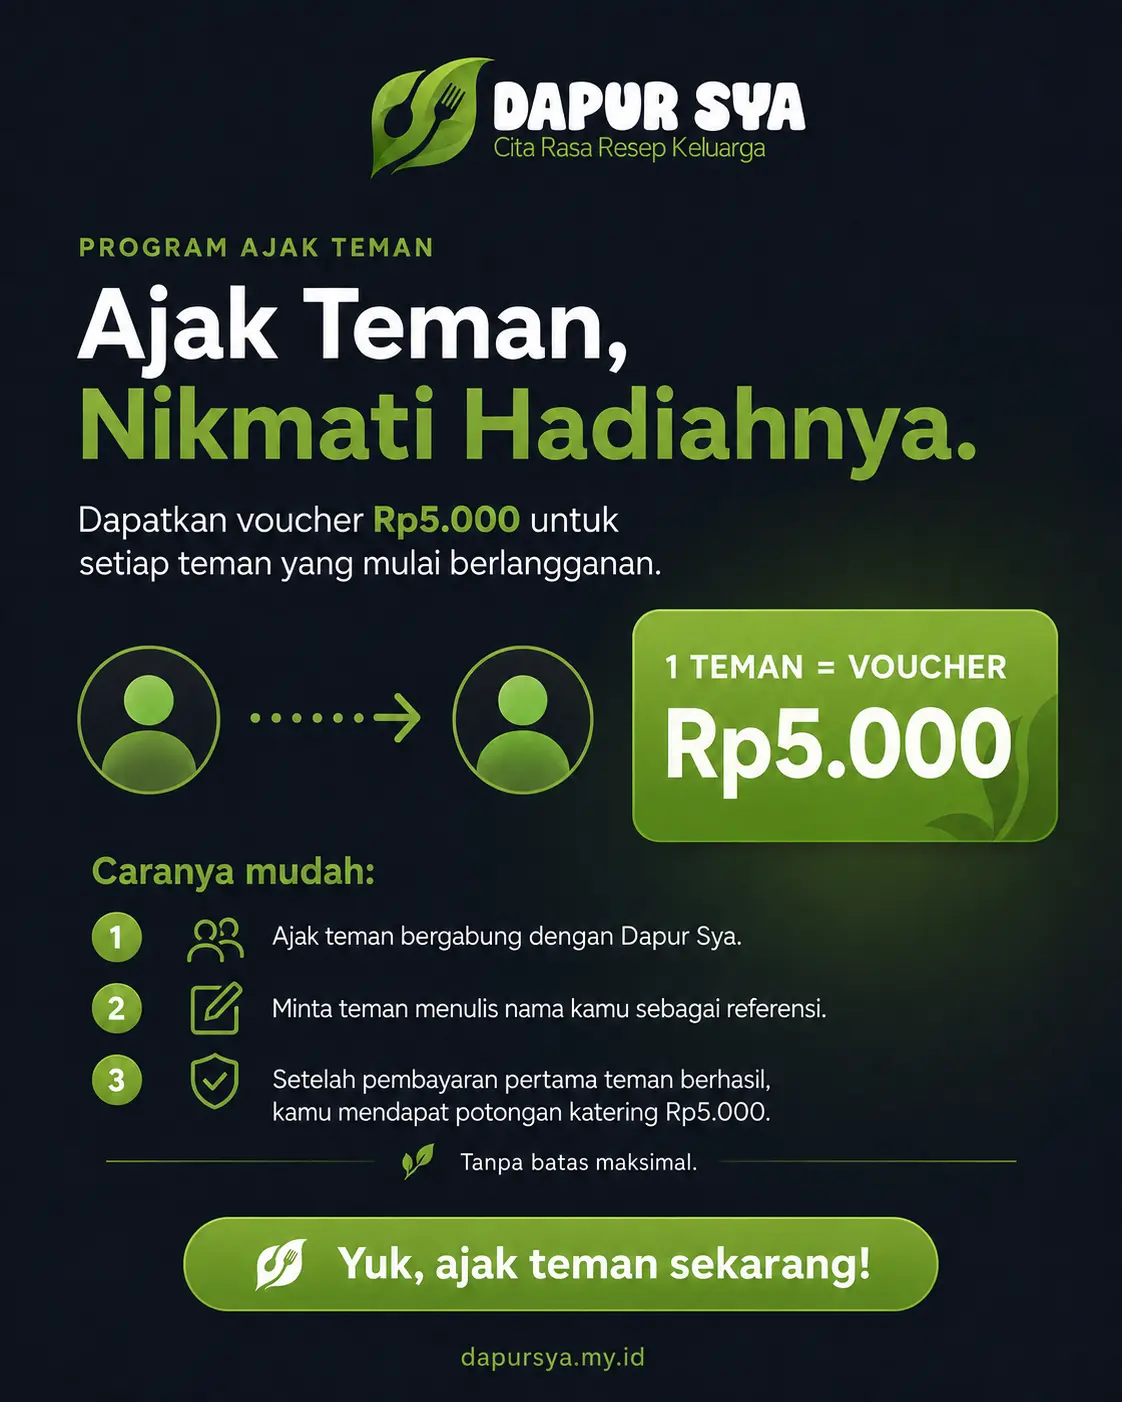
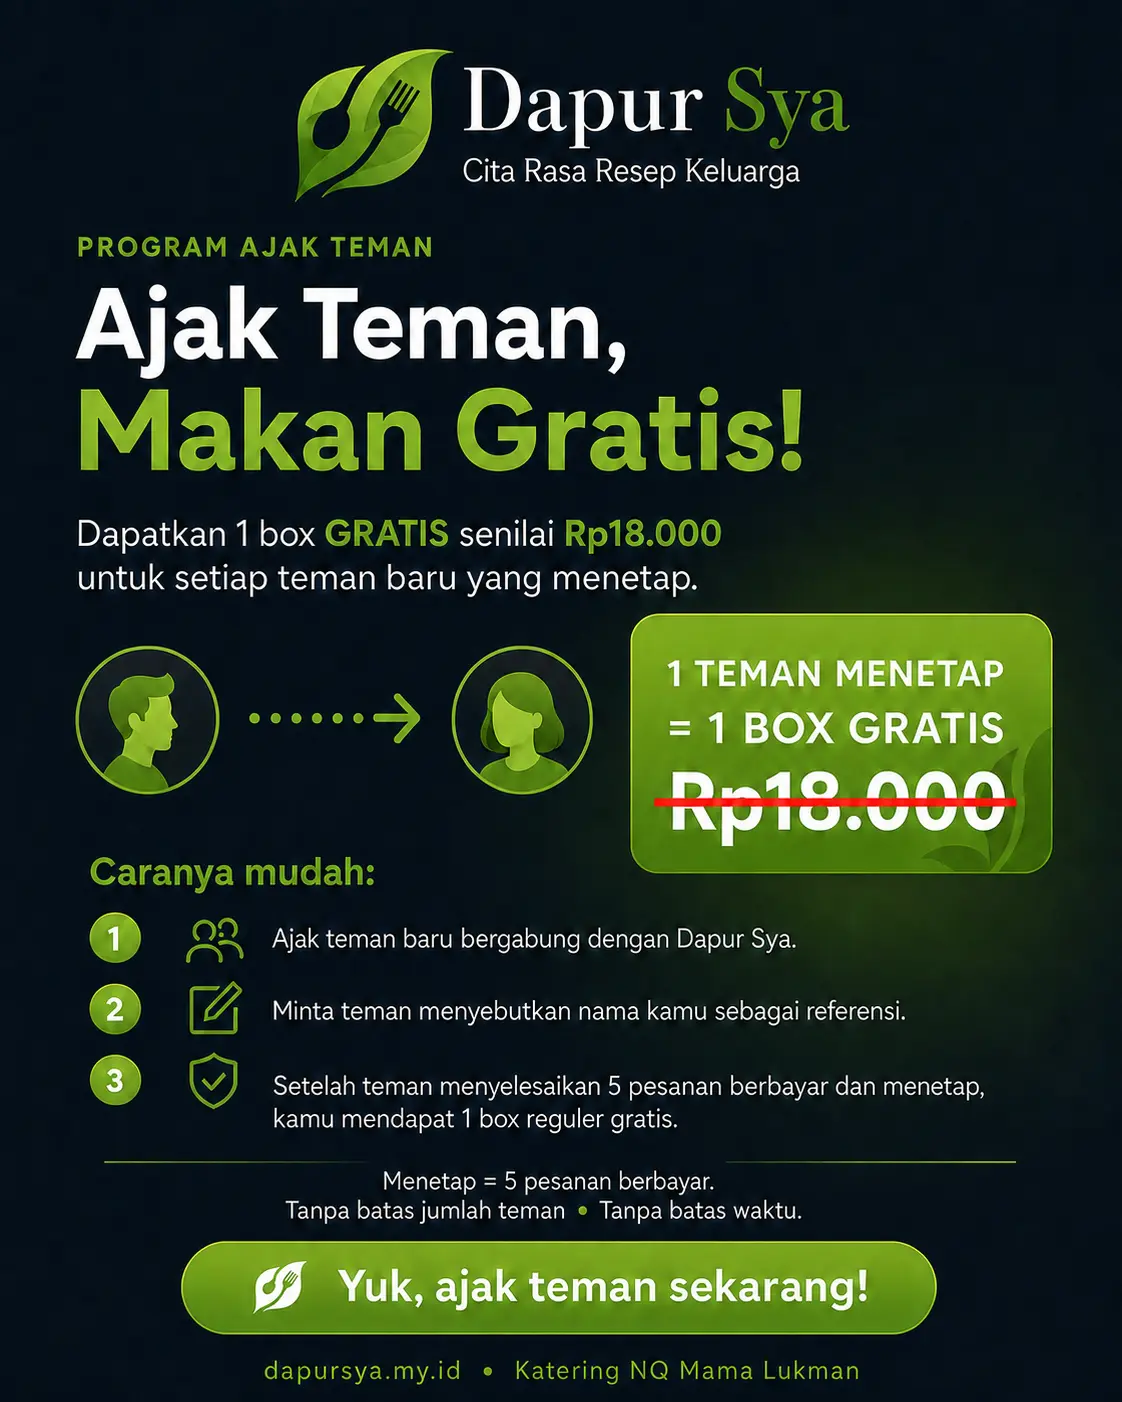
Finalisasi desain promo referral

diff --git a/src/app.js b/src/app.js
@@ -43,7 +43,7 @@ document.querySelector("#app").innerHTML = `
       <span class="referral-promo-icon" aria-hidden="true">🎁</span>
       <span class="referral-promo-copy">
         <strong>Program Ajak Teman</strong>
-        <small>Potongan Rp5.000 untuk pesananmu</small>
+        <small>Ajak teman menetap, dapat 1 box gratis</small>
       </span>
       <span class="referral-promo-action">
         Lihat promo <span aria-hidden="true">›</span>
@@ -193,7 +193,7 @@ document.querySelector("#app").innerHTML = `
       >×</button>
       <img
         src="/promo-referral-dapur-sya.webp"
-        alt="Program Ajak Teman Dapur Sya. Dapatkan potongan katering Rp5.000 untuk setiap teman yang berhasil melakukan pembayaran pertamanya."
+        alt="Program Ajak Teman Dapur Sya. Ajak satu teman baru yang menyelesaikan lima pesanan berbayar dan dapatkan satu box reguler gratis senilai Rp18.000."
         width="1122"
         height="1402"
         loading="lazy"
